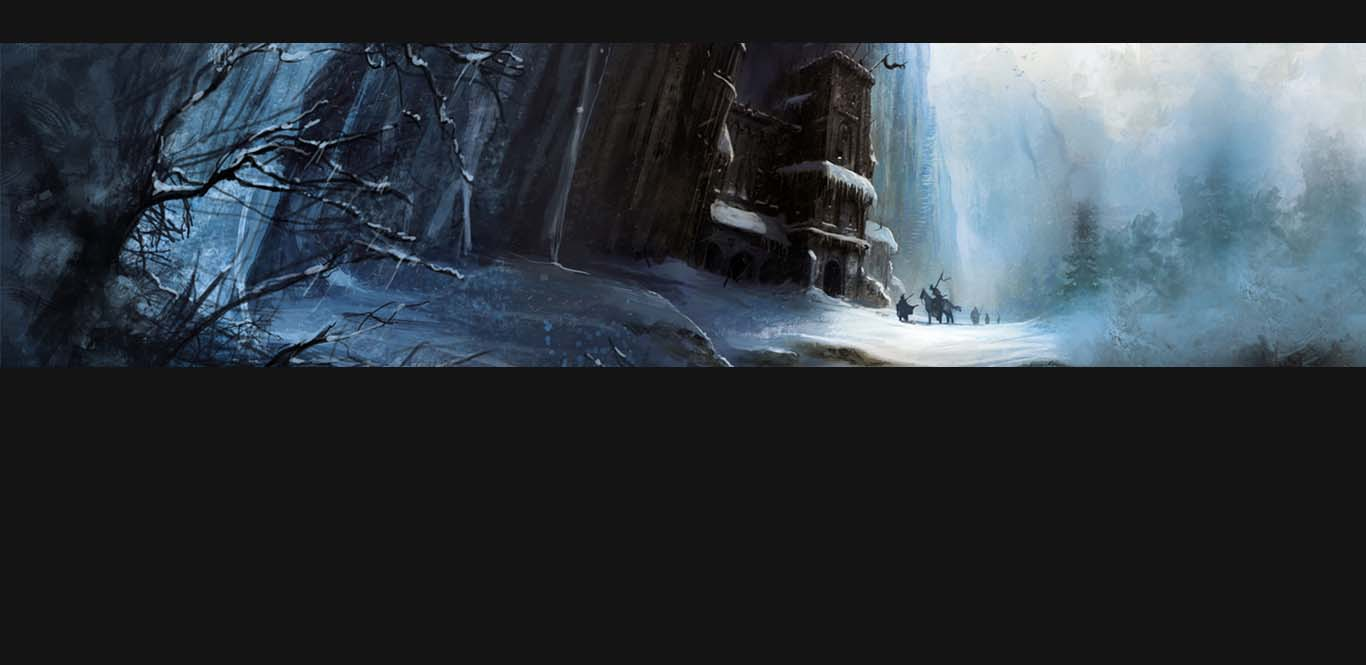
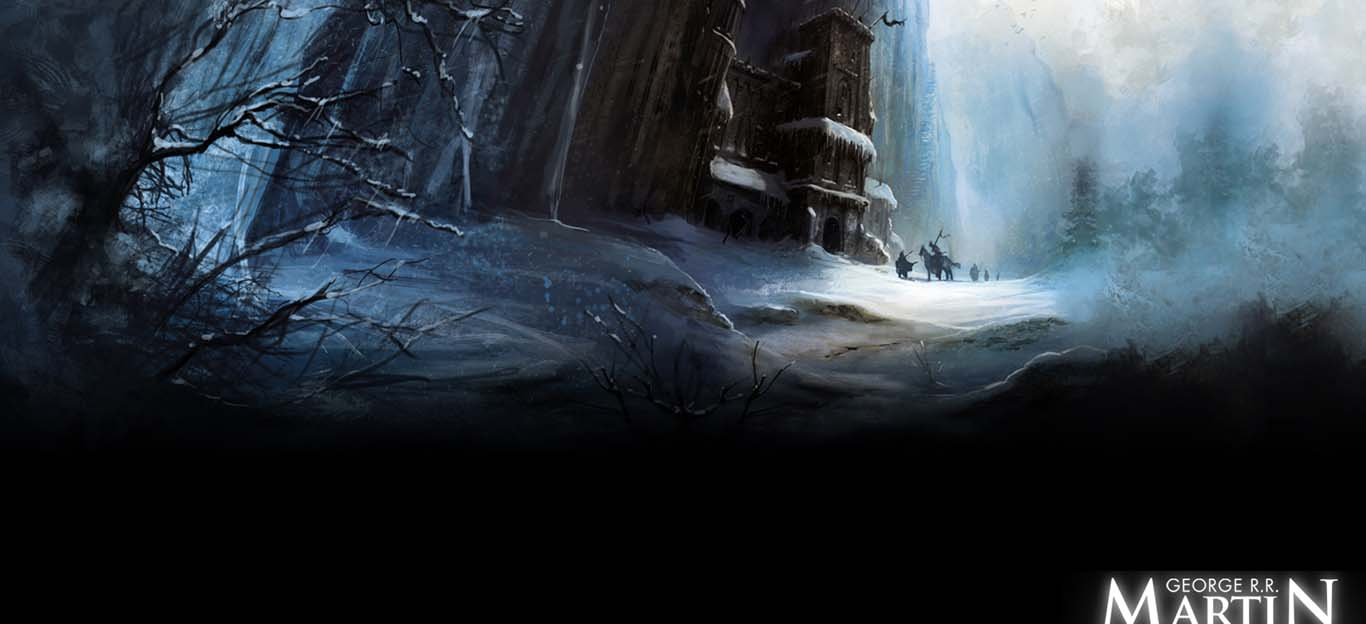
remoção e adição de imagens

diff --git a/style/main.css b/style/main.css
@@ -47,7 +47,7 @@ header nav a:hover{
 /*Filme principal*/
 .filme-principal{
     font-size: 16px;
-    background: linear-gradient(rgba(0,0,0,.50), rgba(0,0,0,.50)100%), url('/resources/capa-gt3.jpg');
+    background: linear-gradient(rgba(0,0,0,.50), rgba(0,0,0,.50)100%), url('/resources/capa-gt2.jpg');
 
     height: 400px;
     background-size: cover;
@@ -89,6 +89,7 @@ header nav a:hover{
 
 .botao i{
     margin-right: 8px;
+    
 }
 
 .container{
